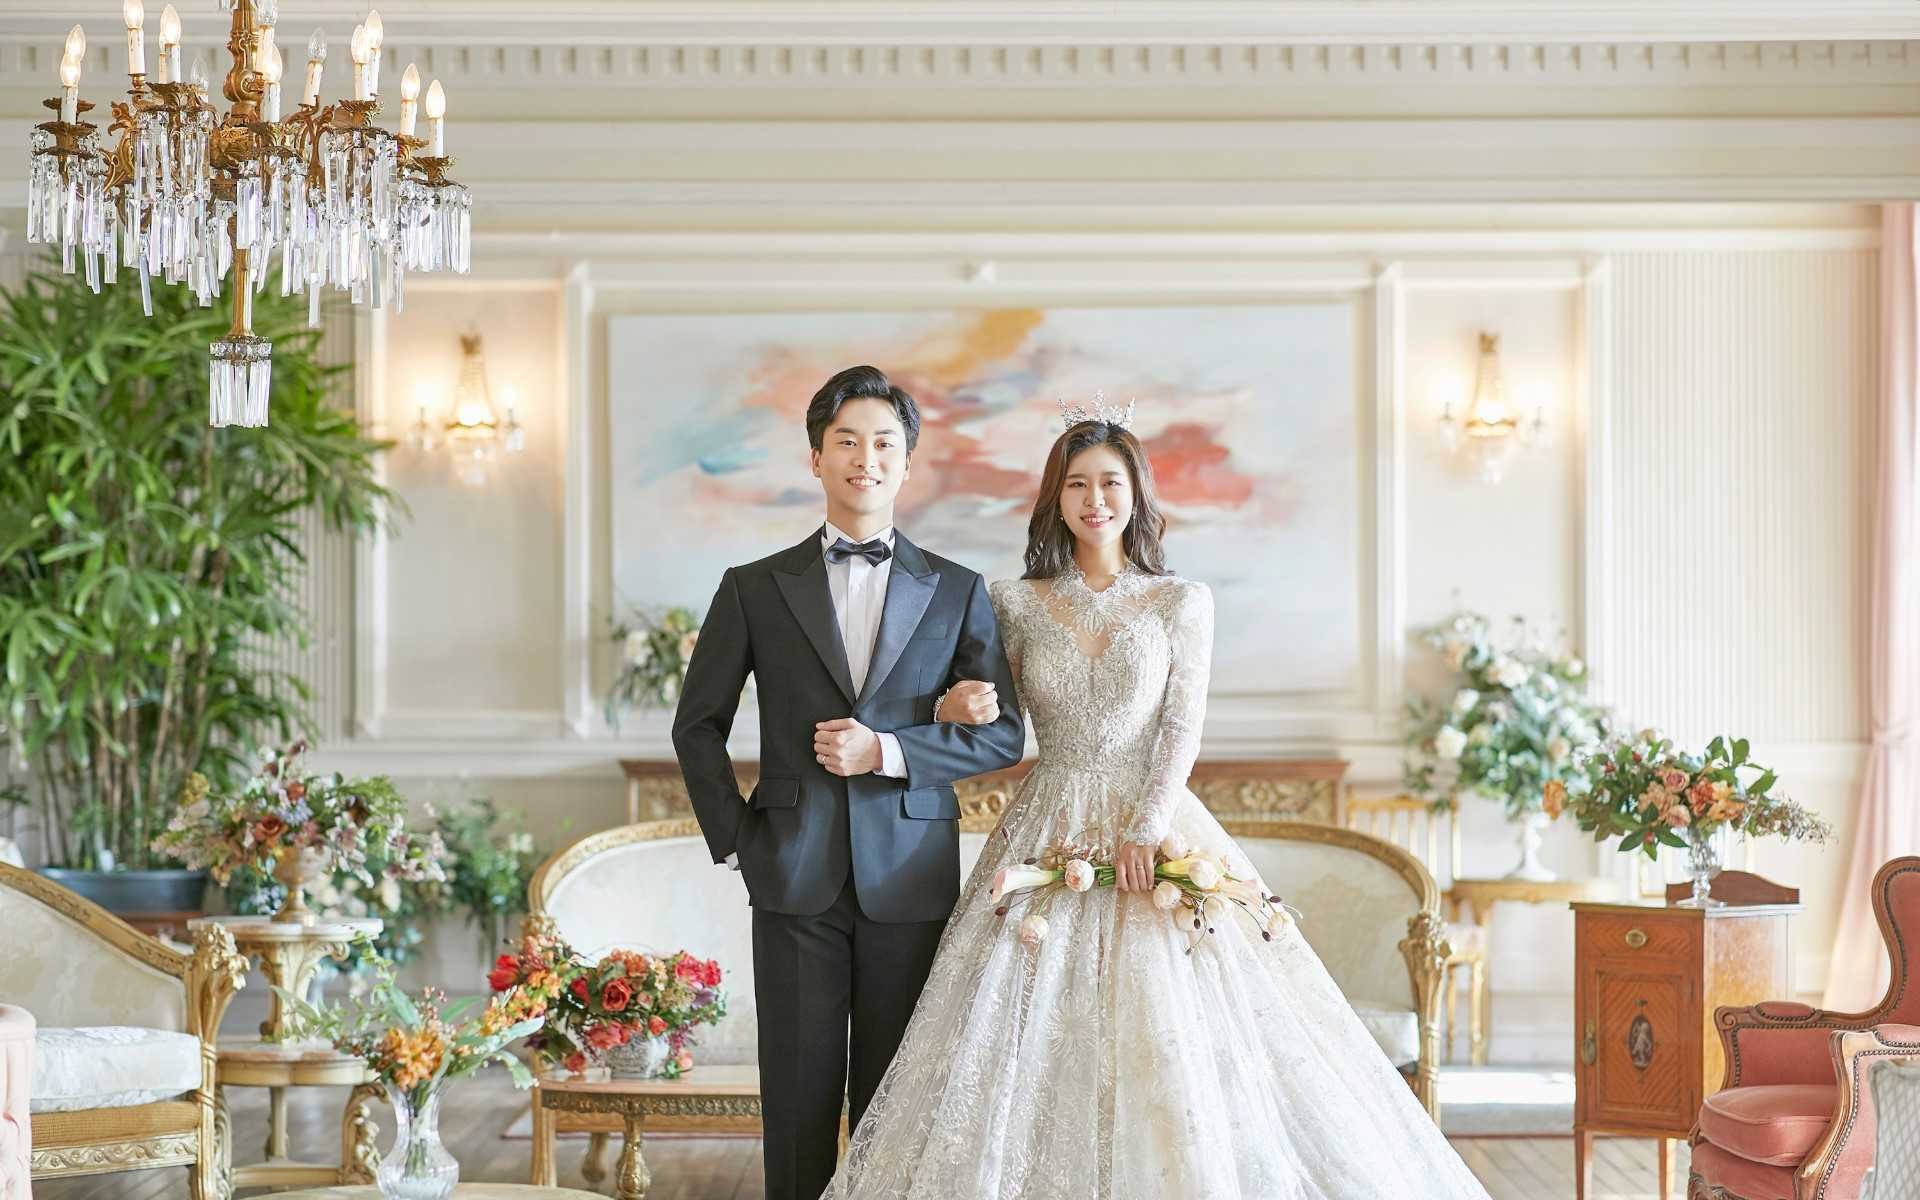
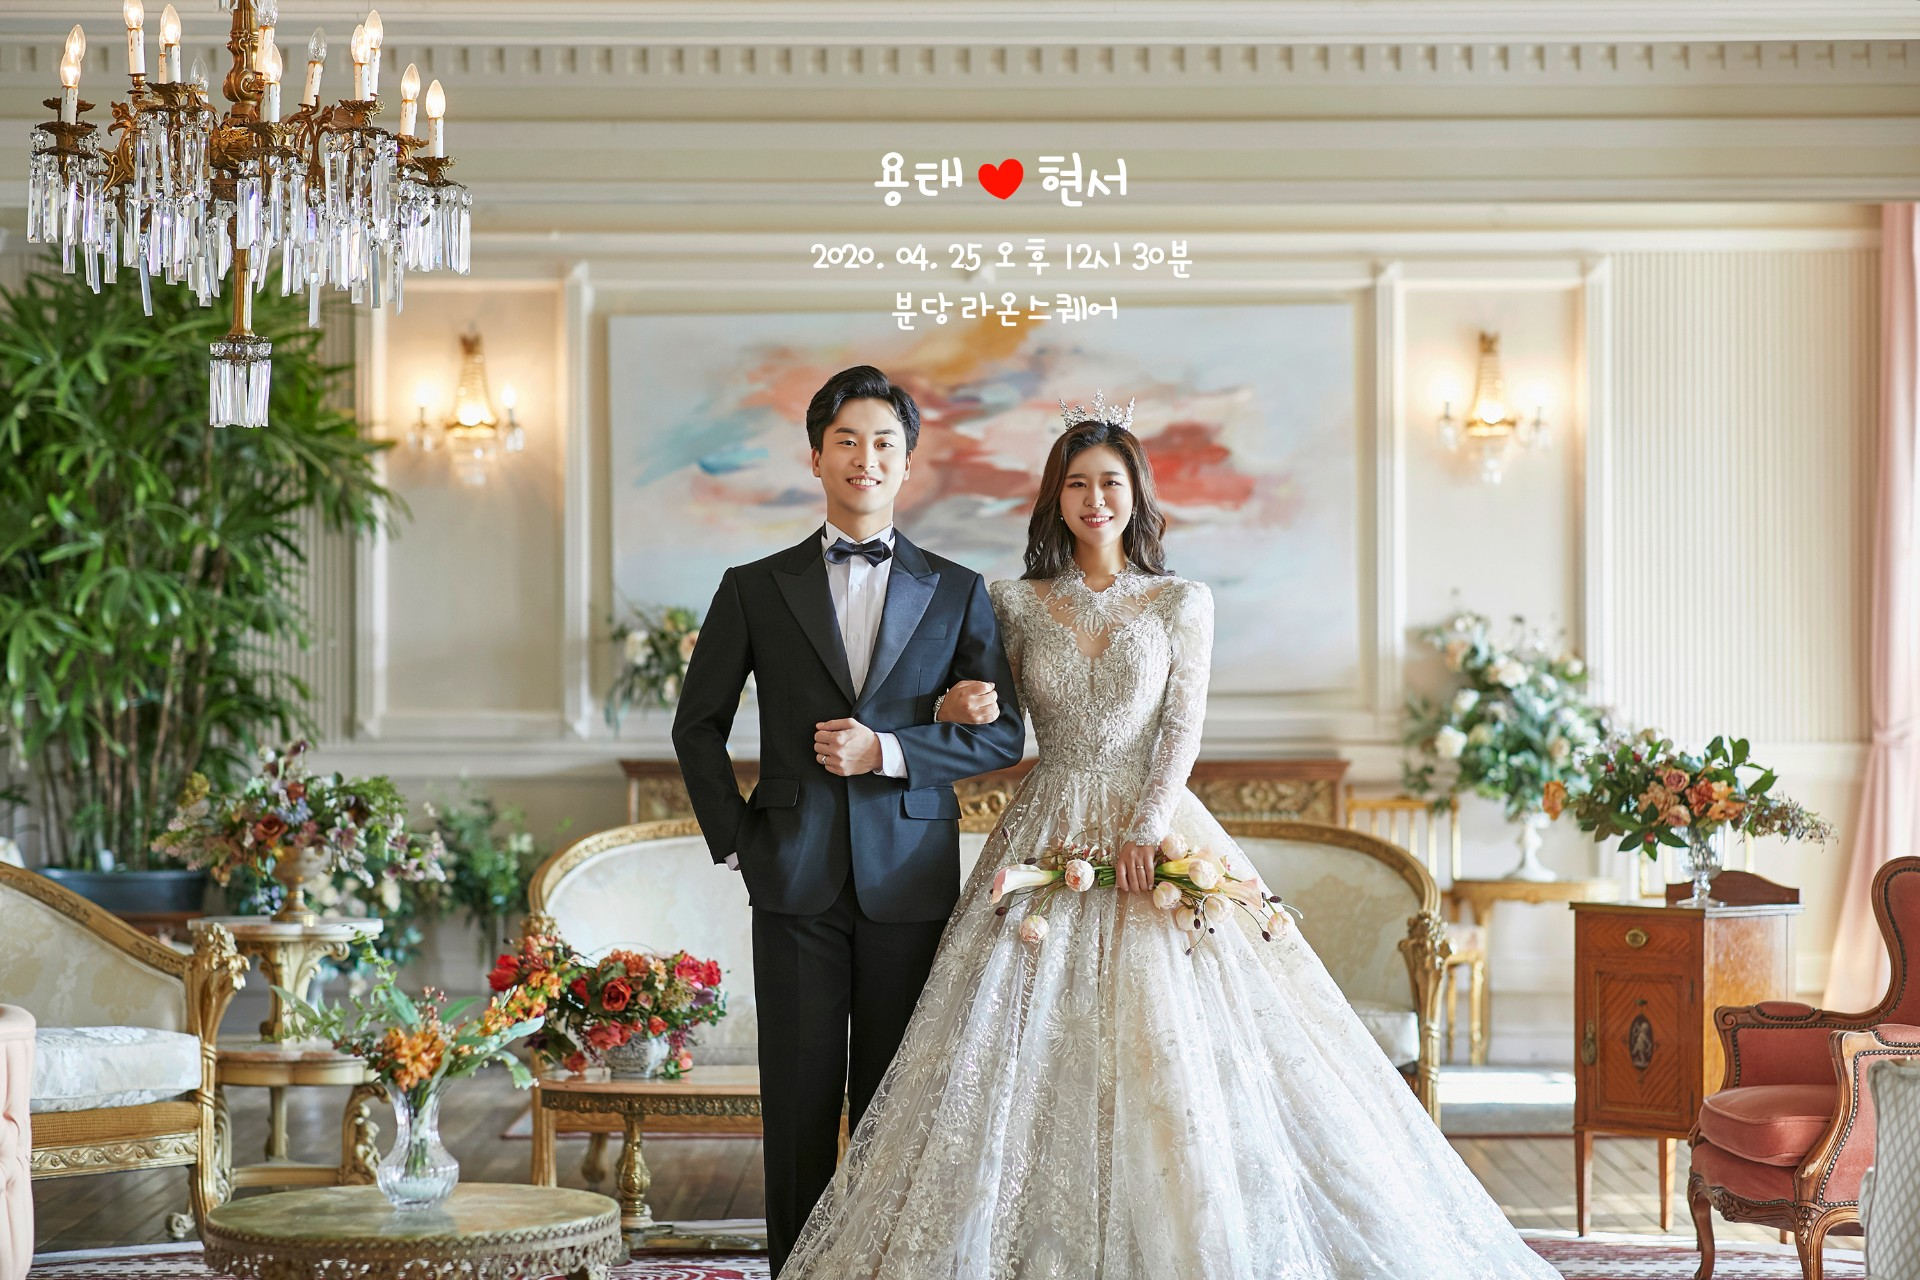
타이틀 변경 및 확대시 퀄리티 좋은 사진으로 변경

diff --git a/index.html b/index.html
@@ -71,37 +71,6 @@
        	<!-- MAIN SLIDER -->
     	<section id="main-slider" class="flexslider fullscreen">
 
-            <!-- MAIN SLIDER TITLE OUTTER WRAPPER -->
-        	<div class="slide-title-outter-wrapper">
-
-            	<!-- MAIN SLIDER TITLE INNER WRAPPER -->
-				<div class="slide-title-inner-wrapper">
-
-                    <!-- TITLE 2 -->
-					<div class="slide-title">
-
-                    	<div class="container">
-                        	<div class="row">
-                        		<div class="col-md-offset-3 col-md-6 animation delay1 fadeInUp">
-
-                                    <div class="banner-text withlove medium light">
-                                    	<h1>용태 <i class="fa fa-heart" style="color:#DC143C"></i>  현서</h1>
-                                    </div>
-                                    <div id="banner-date">
-                                    	- 2020.04.25 오후 12시 30분 -</br>
-																			분당 라온스퀘어
-                                    </div>
-
-								</div>
-							</div>
-						</div>
-
-					</div>
-
-				</div><!-- END of MAIN SLIDER TITLE INNER WRAPPER -->
-
-			</div> <!-- END of MAIN SLIDER TITLE OUTTER WRAPPER -->
-
             <!-- MAIN SLIDER IMAGES -->
 
   			<ul class="slides">
@@ -251,7 +220,7 @@
                                     <div class="alignment">
                                     	<div class="v-align center-middle">
 
-                                     		<a href="./images/g1.jpg" class="magnific-zoom-gallery">
+                                     		<a href="./images/bg1.jpg" class="magnific-zoom-gallery">
         										<div class="de-icon circle light medium-size inline">
             										<i class="fa fa-search-plus"></i>
             									</div>
@@ -281,7 +250,7 @@
                                     <div class="alignment">
                                     	<div class="v-align center-middle">
 
-                                     		<a href="./images/g2.jpg" class="magnific-zoom-gallery">
+                                     		<a href="./images/bg2.jpg" class="magnific-zoom-gallery">
         										<div class="de-icon circle light medium-size inline">
             										<i class="fa fa-search-plus"></i>
             									</div>
@@ -311,7 +280,7 @@
                                     <div class="alignment">
                                     	<div class="v-align center-middle">
 
-                                     		<a href="./images/g3.jpg" class="magnific-zoom-gallery">
+                                     		<a href="./images/bg3.jpg" class="magnific-zoom-gallery">
         										<div class="de-icon circle light medium-size inline">
             										<i class="fa fa-search-plus"></i>
             									</div>
@@ -341,7 +310,7 @@
                                     <div class="alignment">
                                     	<div class="v-align center-middle">
 
-                                     		<a href="./images/g4.jpg" class="magnific-zoom-gallery">
+                                     		<a href="./images/bg4.jpg" class="magnific-zoom-gallery">
         										<div class="de-icon circle light medium-size inline">
             										<i class="fa fa-search-plus"></i>
             									</div>
@@ -371,7 +340,7 @@
                                     <div class="alignment">
                                     	<div class="v-align center-middle">
 
-                                     		<a href="./images/g5.jpg" class="magnific-zoom-gallery">
+                                     		<a href="./images/bg5.jpg" class="magnific-zoom-gallery">
         										<div class="de-icon circle light medium-size inline">
             										<i class="fa fa-search-plus"></i>
             									</div>
@@ -401,7 +370,7 @@
                                     <div class="alignment">
                                     	<div class="v-align center-middle">
 
-                                     		<a href="./images/g6.jpg" class="magnific-zoom-gallery">
+                                     		<a href="./images/bg6.jpg" class="magnific-zoom-gallery">
         										<div class="de-icon circle light medium-size inline">
             										<i class="fa fa-search-plus"></i>
             									</div>
@@ -431,7 +400,7 @@
                                     <div class="alignment">
                                     	<div class="v-align center-middle">
 
-                                     		<a href="./images/g7.jpg" class="magnific-zoom-gallery">
+                                     		<a href="./images/bg7.jpg" class="magnific-zoom-gallery">
         										<div class="de-icon circle light medium-size inline">
             										<i class="fa fa-search-plus"></i>
             									</div>
@@ -461,7 +430,7 @@
                                     <div class="alignment">
                                     	<div class="v-align center-middle">
 
-                                     		<a href="./images/g8.jpg" class="magnific-zoom-gallery">
+                                     		<a href="./images/bg8.jpg" class="magnific-zoom-gallery">
         										<div class="de-icon circle light medium-size inline">
             										<i class="fa fa-search-plus"></i>
             									</div>
@@ -491,7 +460,7 @@
                                     <div class="alignment">
                                     	<div class="v-align center-middle">
 
-                                     		<a href="./images/g9.jpg" class="magnific-zoom-gallery">
+                                     		<a href="./images/bg9.jpg" class="magnific-zoom-gallery">
         										<div class="de-icon circle light medium-size inline">
             										<i class="fa fa-search-plus"></i>
             									</div>
